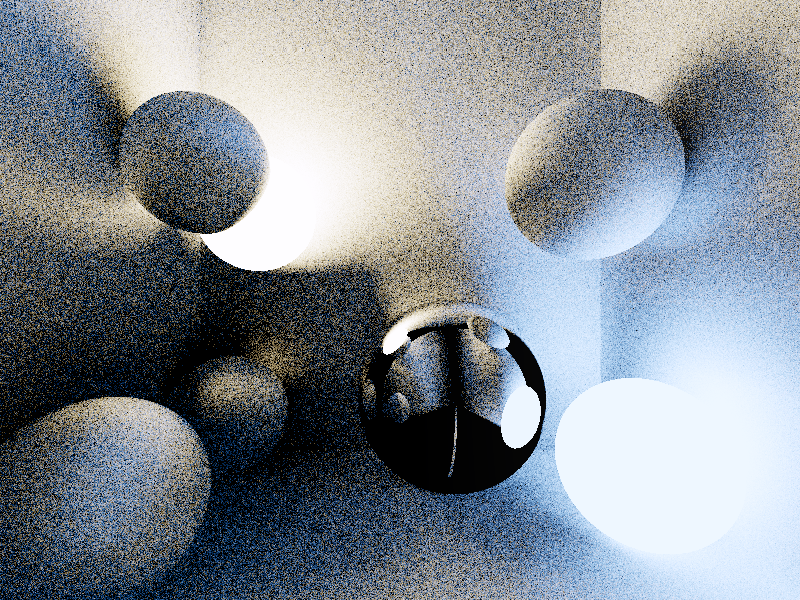
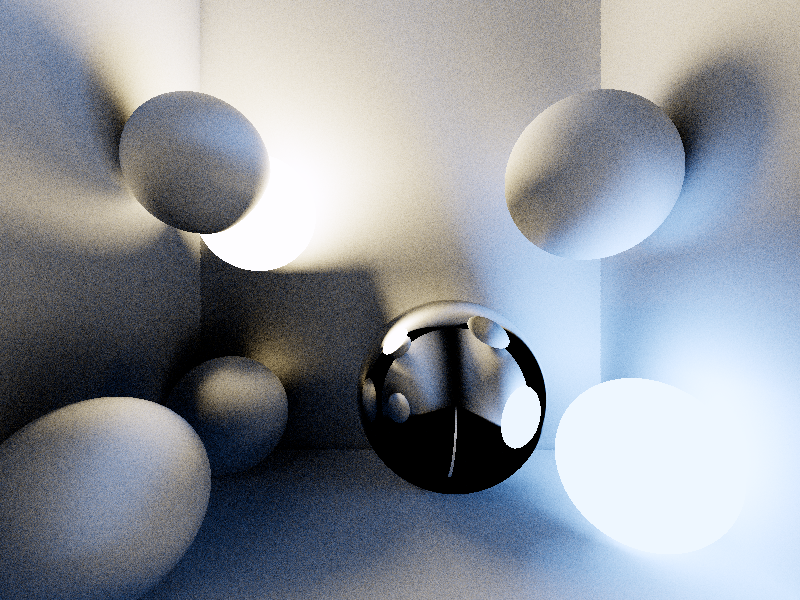
Some Pathtracing crap

diff --git a/Raytracer/Material.cpp b/Raytracer/Material.cpp
@@ -47,15 +47,6 @@ Color Specular::CalculateRayColor(Vector3<float> anIntersectionPoint, CommonUtil
 	}
 
 
-	/*auto sphere = CScene::GetClosestSphere(aRay, someOtherSpheres, IMaterial::myOwner);
-
-	if (sphere._Myfirst._Val)
-	{
-		Color reflectedColor = sphere._Myfirst._Val->TracePath(sphere._Get_rest()._Myfirst._Val, aRay, someOtherSpheres, someLightInfo, someSkyInfo, aBounceLimit - 1);
-		result = reflectedColor * myColor;
-
-	}*/
-
 	return result;
 }
 
@@ -109,7 +100,7 @@ Color Diffuse::CalculateRayColor(Vector3<float> anIntersectionPoint, CommonUtili
 	}
 	else
 	{
-		result = skyColor * someLightInfo.myColor;
+		result += skyColor * someLightInfo.myColor;
 	}
 
 

diff --git a/Raytracer/Raytracer.cpp b/Raytracer/Raytracer.cpp
@@ -20,7 +20,7 @@ int main(int argc, char* argv[])
 
 	CScene scene(width, height);
 
-	std::string filename = "uppgift8_text.txt";
+	std::string filename = "uppgift5_scen.txt";
 	if (argc > 1)
 		filename = argv[1];
 
